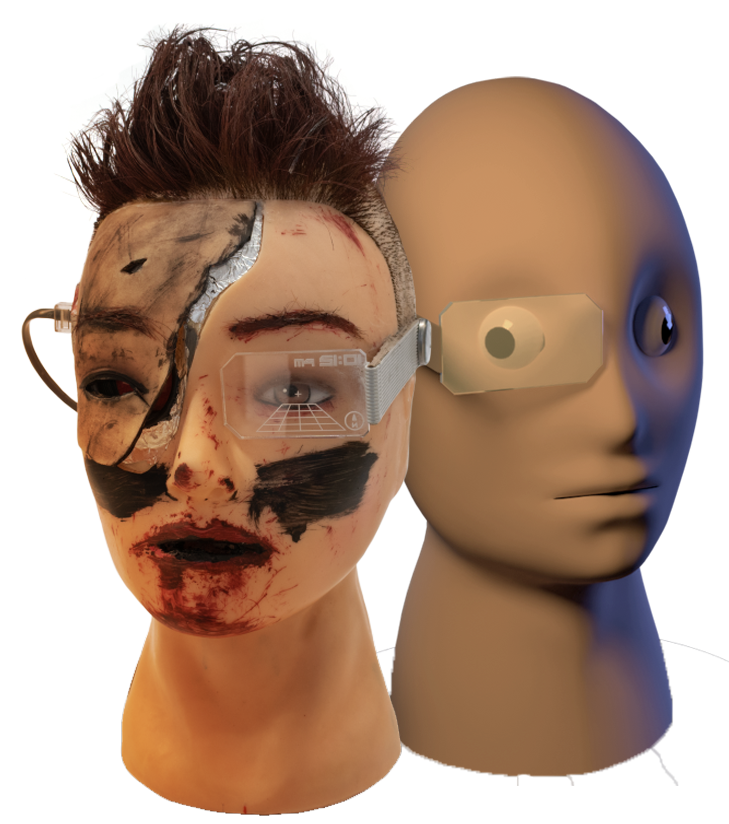
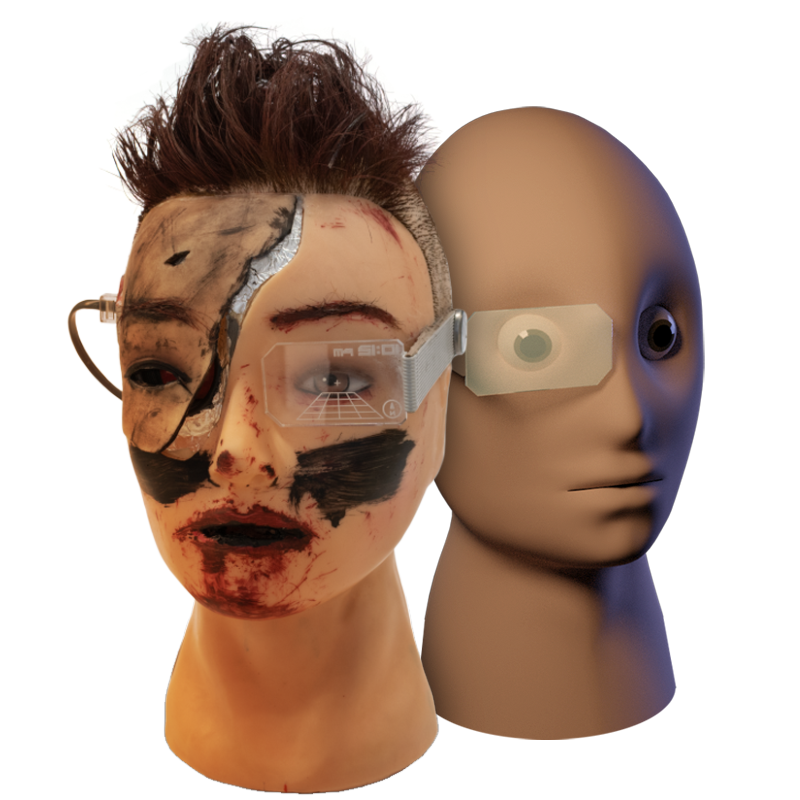
Updated Cyberthug page

diff --git a/cyberthug.html b/cyberthug.html
@@ -18,7 +18,7 @@
             <div class="container featureContent">
 
                 <div class="avatar">
-					<img src="assets/images/cyberthug/avatar.png" onload="this.animation.avatarFadeIn"></img>
+					<img src="assets/images/cyberthug/avatar.png"></img>
 				</div>
 				<img class="featureTitleCyberthug" src="assets/vector/cyberthugLogo.svg"/>
 
@@ -36,7 +36,7 @@
                         <div class="row">
 
         					<div class="column2-cyberthugA">
-        						<img class="column2-cyberthugA-image" src="assets/images/cyberthug/cyberthug.gif"></img>
+        						<img class="column2-cyberthugA-image" src="assets/images/cyberthug/cyberthugB.png" style="background-color: #00000060;"></img>
         					</div>
 
         					<div class="column2-cyberthugB">
@@ -65,18 +65,13 @@
                         <h2 class="section-heading textColor-secondary" style="text-align: left !important;">What is the Cyberthug Core?</h2>
                         <div class="row">
 
-        					<div class="column2-cyberthugA">
-        						<img class="column2-cyberthugA-image" src="assets/images/cyberthug/cyberthugCore.jpg"></img>
+							<div class="column2-cyberthugA">
+        						<img class="column2-cyberthugA-image" src="assets/images/cyberthug/cyberthugCore.png" style="background-color: #00000060;"></img>
         					</div>
 
         					<div class="column2-cyberthugB">
         						<span class="text-paragraph textColor-white">
-        							Lorem ipsum dolor sit amet, consectetur adipiscing elit. Vestibulum mollis enim id lorem bibendum ullamcorper. Suspendisse sit amet nunc mi. Aenean eget erat leo. Nullam maximus sapien vel venenatis consequat. Suspendisse at consequat lectus, eget volutpat tortor. Proin aliquam eu diam ac luctus. Ut mauris quam, sodales quis porttitor vel, malesuada non purus. Etiam vestibulum lorem urna, et condimentum nisl ultricies in. Aliquam dictum velit et ligula vulputate placerat. Nulla vestibulum vitae augue ac consequat. Pellentesque velit felis, laoreet facilisis neque tincidunt, semper auctor turpis. Curabitur vulputate nibh quis egestas volutpat. Proin tempus vestibulum turpis nec pulvinar. Nam suscipit nunc quis massa ultricies, ac consequat eros tempor. Aliquam hendrerit a velit sit amet pharetra. Nam placerat cursus felis, nec tempus ex elementum nec.
-        						</span>
-        						<br>
-        						<br>
-        						<span class="text-paragraph textColor-white">
-        							Nam pretium imperdiet aliquam. Pellentesque sed elit cursus, scelerisque lectus non, eleifend erat. Aliquam sit amet sollicitudin mauris. Vestibulum congue gravida metus et laoreet. Nulla blandit nibh ac ante commodo, vel consequat nisi consequat. Curabitur ultrices dui eget lectus fringilla ultrices. Integer sit amet ligula id est tempor maximus porttitor ut lacus. Pellentesque egestas pretium metus eu vulputate. Donec ac erat elit. Ut ut mattis metus, in tincidunt tellus. Aliquam sed imperdiet libero. Vestibulum a suscipit felis, nec consequat odio. Donec fermentum rutrum nisi ut mattis. Aliquam erat volutpat. Vestibulum ante ipsum primis in faucibus orci luctus et ultrices posuere cubilia curae;
+									This artefact is an artificial intelligence built by the early Cyberthugs. As the sole governor of the underground civilisation, it lies in an isolated chamber far out of reach of most citizens. Through non-invasive observation in public spaces, those it deems worthy and decent enough will be permitted to access its chamber and provide ideas on how to improve things further.
         						</span>
         					</div>
 
@@ -100,7 +95,7 @@
 			        							Cyberthug
 			        						</span>
 											<br>
-											<span class="glassButton-text2 textColor-white">
+											<span class="glassButton-text2 textColor-lightGrey">
 			        							Semester 1, 2021
 			        						</span>
 										</div>

diff --git a/framework/styles.css b/framework/styles.css
@@ -356,17 +356,12 @@ img {
 
 .glassButton-text1 {
 	font-size: 1.7rem;
-    font-weight: 500;
-}
-
-.glassButton-text1b {
-	font-size: 1rem;
-    font-weight: 500;
+    font-weight: 700;
 }
 
 .glassButton-text2 {
 	font-size: 0.9rem;
-    font-weight: 300;
+    font-weight: 500;
 }
 
 .glassButton-overlay {
@@ -946,7 +941,7 @@ img {
     .column2-cyberthugA-image {
         width: 100%;
         height: 100%;
-        border-radius: 20px;
+        border-radius: 1rem;
     }
 
 	.column2-cyberthugB {
@@ -1018,7 +1013,7 @@ img {
     .column2-cyberthugA-image {
         width: 100%;
         height: 100%;
-        border-radius: 20px;
+        border-radius: 1rem;
     }
 
 	.column2-cyberthugB {
@@ -1090,7 +1085,7 @@ img {
     .column2-cyberthugA-image {
         width: 21rem;
         height: 21rem;
-        border-radius: 500px;
+        border-radius: 2.5rem;
         margin-bottom: 2rem;
     }
 
@@ -1163,7 +1158,7 @@ img {
     .column2-cyberthugA-image {
         width: 24rem;
         height: 24rem;
-        border-radius: 500px;
+        border-radius: 2.5rem;
         margin-bottom: 2rem;
     }
 
@@ -1182,4 +1177,37 @@ img {
 	    flex: 0 0 auto;
 	    width: 25%;
 	}
+}
+
+
+
+
+
+
+
+
+
+
+
+
+
+
+
+.animCyberthugB {
+  display: flex;
+  padding: 2px;
+  width: 100% !important;
+  height: 100% !important;
+}
+
+
+.animCyberthugB {
+  animation: animCyberthugB-animation 4s infinite steps(48) forwards;
+}
+
+
+@keyframes animCyberthugB-animation {
+  to {
+    background-position: -14400px 0px;
+  }
 }
